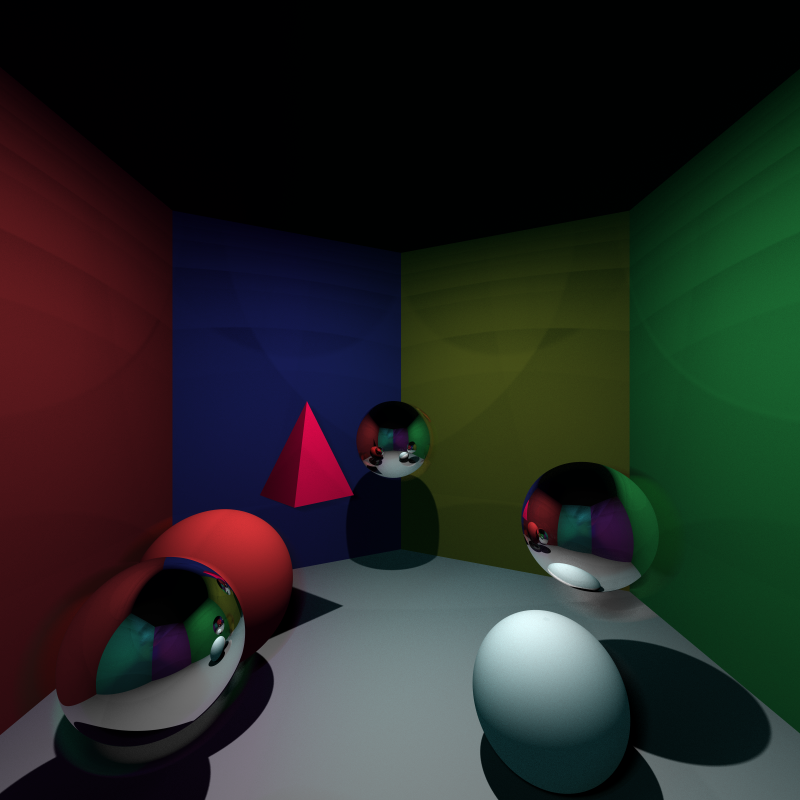
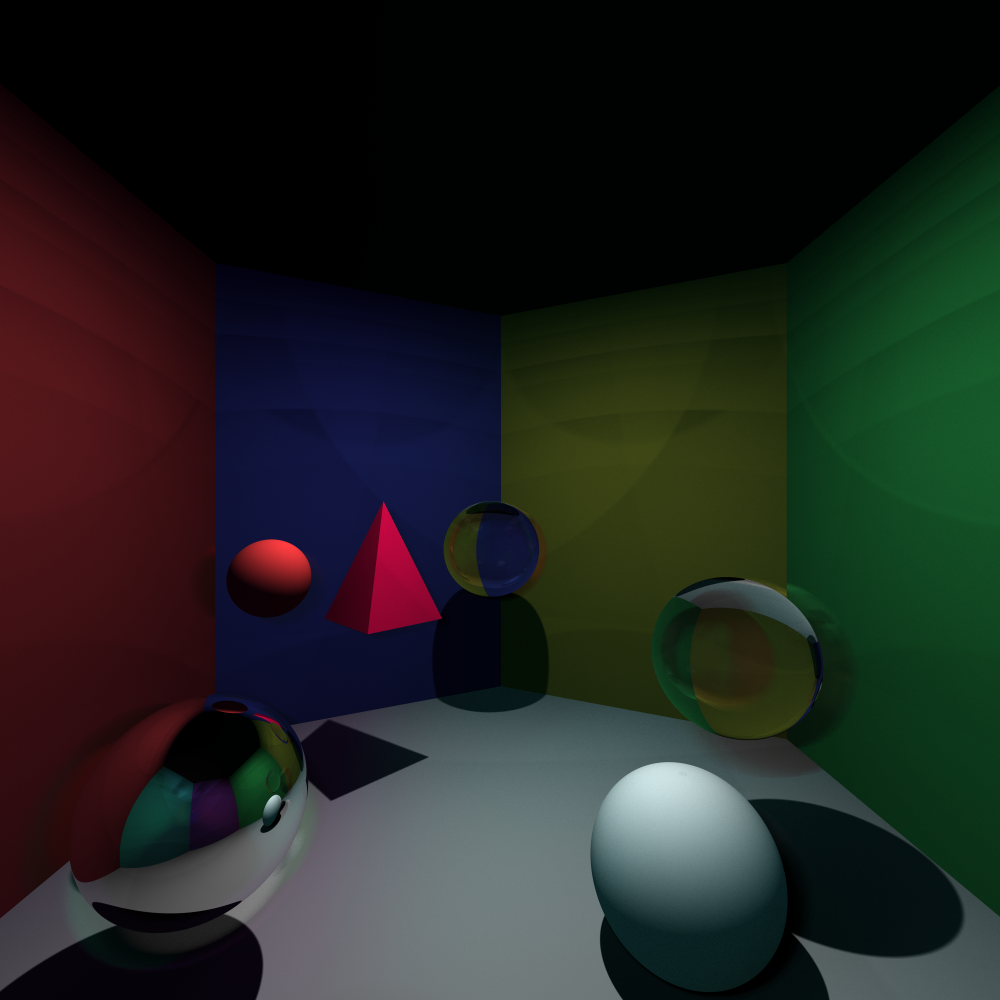
Fixed transparent and display time
Transparency now works and changed the format of the time rendering. Need to refactor some code for transparent objects. Spheres also have a glow around them, what is that?

diff --git a/src/Scene.cpp b/src/Scene.cpp
@@ -96,7 +96,7 @@ Scene::Scene() {
 	sphereTable[1] = Sphere(1.0f, glm::vec3(6.0f, -3.0f, -2.0f), ColorDBL(0.5f, 0.5f, 0.5f), Material::TRANSPARENT); // TRANSPARENT
 	sphereTable[2] = Sphere(1.0f, glm::vec3(5.0f, -2.0f, -4.0f), ColorDBL(1.0f, 1.0f, 1.0f), Material::LAMBERTIAN);
 	sphereTable[3] = Sphere(1.0f, glm::vec3(10.0f, 0.2f, -1.0f), ColorDBL(0.5f, 0.5f, 0.5f), Material::TRANSPARENT); // TRANSPARENT
-	sphereTable[4] = Sphere(1.2f, glm::vec3(6.0f, 3.0f, -3.0f), ColorDBL(0.8f, 0.2f, 0.2f), Material::LAMBERTIAN);
+	sphereTable[4] = Sphere(0.5f, glm::vec3(6.0f, 3.0f, -1.0f), ColorDBL(0.8f, 0.2f, 0.2f), Material::LAMBERTIAN);
 
 	// Tetrahedron in the scene
 	tetrahedronTable[0] = Tetrahedron(glm::vec3(8.0f, 2.0f, -1.0f), ColorDBL(0.96f, 0.04f, 0.32f), Material::LAMBERTIAN);
@@ -174,15 +174,15 @@ void Scene::handleReflection(Ray& ray, int numReflections) {
 	}
 	// Transparent surface
 	case Material::TRANSPARENT: {
-		glm::vec3 normal = ray.getObjectNormal(); // Normal for the polygon
+		glm::vec3 normal = glm::normalize(ray.getObjectNormal()); // Normal for the polygon
 		glm::vec3 ingoingRayDirection = glm::normalize(ray.getDirection()); // Normalised inclination angle Omega
 
 		float n1 = 1.0f; // Air
 		float n2 = 1.5f; // Glass
 
 		// Schlick's law for BRDF
-		float R0 = (float)glm::pow((n1 - n2) / (n1 + n2), 2);
-		float reflectedBRDF = R0 + (1.0f - R0) * (float)glm::pow(1.0f - glm::cos(glm::dot(ingoingRayDirection, normal)), 5);
+		float R0 = (float)glm::pow((n2 - n1) / (n1 + n2), 2);
+		float reflectedBRDF = R0 + (1.0f - R0) * (float)glm::pow(1.0f - glm::cos(glm::dot(-ingoingRayDirection, normal)), 5);
 		// float transmittedBRDF = 1.0 - reflectedBRDF; // Unnecessary?
 
 		if (ray.getRayType() == RayType::INSIDE_TRANSPARENT) {
@@ -194,7 +194,7 @@ void Scene::handleReflection(Ray& ray, int numReflections) {
 				// Reflected direction
 				glm::vec3 reflectedDirection = ray.getDirection() - 2.0f * glm::dot(ray.getDirection(), normal) * normal;
 
-				Ray reflectedRay = Ray(ray.getEndpoint(), reflectedDirection);
+				Ray reflectedRay = Ray(ray.getEndpoint() - normal * 0.002f, reflectedDirection);
 
 				// Set up doubly linked list
 				ray.nextRay = &reflectedRay;
@@ -208,15 +208,56 @@ void Scene::handleReflection(Ray& ray, int numReflections) {
 				break;
 			}
 
+			// Reflect ray, not refract
+			if (distribution(seed) < reflectedBRDF) {
+				// Reflected direction
+				glm::vec3 reflectedDirection = ray.getDirection() - 2.0f * glm::dot(ray.getDirection(), normal) * normal;
+
+				// Create reflected ray, with margin to not get stuck
+				Ray reflectedRay = Ray(ray.getEndpoint() - normal * 0.002f, reflectedDirection);
+
+				// Set up doubly linked list
+				ray.nextRay = &reflectedRay;
+				reflectedRay.prevRay = &ray;
+
+				// Recursively cast reflected ray into scene
+				castRay(reflectedRay);
+
+				reflectedRay.prevRay->setColor(reflectedRay.getColor());
+			}
+			// Refract ray, not reflect
+			else {
+				float R = n2 / n1; // SinB / SinOmega, ratio of refractive index
+				// Reflected direction
+				glm::vec3 refractedDirection = R * ingoingRayDirection + normal * (float)(-R * glm::dot(normal, ingoingRayDirection) - glm::sqrt(1.0f - R * R * (1.0f - glm::pow(glm::dot(normal, ingoingRayDirection), 2))));
+
+				// Create refracted ray, with margin to not get stuck
+				Ray refractedRay = Ray(ray.getEndpoint(), refractedDirection, RayType::INSIDE_TRANSPARENT);
+
+				// Set up doubly linked list
+				ray.nextRay = &refractedRay;
+				refractedRay.prevRay = &ray;
+
+				// Recursively cast refracted ray into scene
+				castRay(refractedRay);
+
+				refractedRay.prevRay->setColor(refractedRay.getColor());
+			}
+			break;
 			// Not total reflection, calculate in the same way as if from outside sphere
 			// Normal is inverted already
 		}
-		
+
+
+		R0 = (float)glm::pow((n1 - n2) / (n1 + n2), 2);
+		reflectedBRDF = R0 + (1.0f - R0) * (float)glm::pow(1.0f - glm::cos(glm::dot(-ingoingRayDirection, normal)), 5);
+
 		// Reflect ray, not refract
 		if (distribution(seed) < reflectedBRDF) {
 			// Reflected direction
 			glm::vec3 reflectedDirection = ray.getDirection() - 2.0f * glm::dot(ray.getDirection(), normal) * normal;
-				
+			
+			// Create reflected ray, with margin to not get stuck
 			Ray reflectedRay = Ray(ray.getEndpoint() - normal * 0.002f, reflectedDirection);
 
 			// Set up doubly linked list
@@ -234,6 +275,7 @@ void Scene::handleReflection(Ray& ray, int numReflections) {
 			// Reflected direction
 			glm::vec3 refractedDirection = R * ingoingRayDirection + normal * (float)(-R * glm::dot(normal, ingoingRayDirection) - glm::sqrt(1.0f - R * R * (1.0f - glm::pow(glm::dot(normal, ingoingRayDirection), 2))));
 
+			// Create refracted ray, with margin to not get stuck
 			Ray refractedRay = Ray(ray.getEndpoint() - normal * 0.002f, refractedDirection, RayType::INSIDE_TRANSPARENT);
 
 			// Set up doubly linked list

diff --git a/src/functions.cpp b/src/functions.cpp
@@ -12,3 +12,20 @@ void progressBar(float percent) {
 	std::cout << "] " << int(percent * 100.0f + 0.5f) << " %\r"; // +0.5 for round-off error
 	std::cout.flush();
 }
+
+// Display the time in hours, minutes, seconds and milliseconds from seconds
+void displayTime(int timeMilliseconds) {
+	int seconds = timeMilliseconds / 1000;
+	int minutes = seconds / 60;
+	int hours = minutes / 60;
+
+	int milliseconds = timeMilliseconds % 1000;
+	seconds %= 60;
+	minutes %= 60;
+
+	std::cout << std::setfill('0');
+	if (hours > 0) std::cout << std::setw(2) << hours << ":";
+	if (minutes > 0) std::cout << std::setw(2) << minutes << ":";
+	if (seconds > 0) std::cout << std::setw(2) << seconds << ".";
+	std::cout << std::setw(3) << milliseconds;
+}

diff --git a/src/main.cpp b/src/main.cpp
@@ -6,7 +6,7 @@
 int main() {
     auto start = std::chrono::high_resolution_clock::now();
 
-    Camera c{};
+    Camera c{1000};
     Scene s{};
 
     c.renderImage(s);
@@ -16,6 +16,8 @@ int main() {
     auto duration = std::chrono::duration_cast<std::chrono::milliseconds>(stop - start);
 
     system("cls");
-    std::cout << "\nFinished rendering in " << (float)(duration.count()) / 1000 << " seconds!\n";
+    std::cout << "\nFinished rendering in ";
+    displayTime((int)duration.count());
+    std::cout << "\n";
     return 0;
 }

diff --git a/include/functions.h b/include/functions.h
@@ -1,8 +1,12 @@
 #pragma once
 #include <iostream>
+#include <iomanip>
 
 const int BAR_WIDTH = 40;
 
 // Display a progress bar over the rendered/saved image
 // Code from https://stackoverflow.com/questions/14539867/how-to-display-a-progress-indicator-in-pure-c-c-cout-printf
 void progressBar(float percent);
+
+// Display the time in hours, minutes, seconds and milliseconds from seconds
+void displayTime(int timeMilliseconds);

diff --git a/include/Camera.h b/include/Camera.h
@@ -9,7 +9,7 @@
 #include "functions.h"
 
 const int SIZE = 600; // Default image resolution (square)
-const int NUMBER_OF_SUBPIXELS = 1; // numbers of rays to cast through each pixel (squared)
+const int NUMBER_OF_SUBPIXELS = 16; // numbers of rays to cast through each pixel (squared)
 
 class Camera {
 public:
